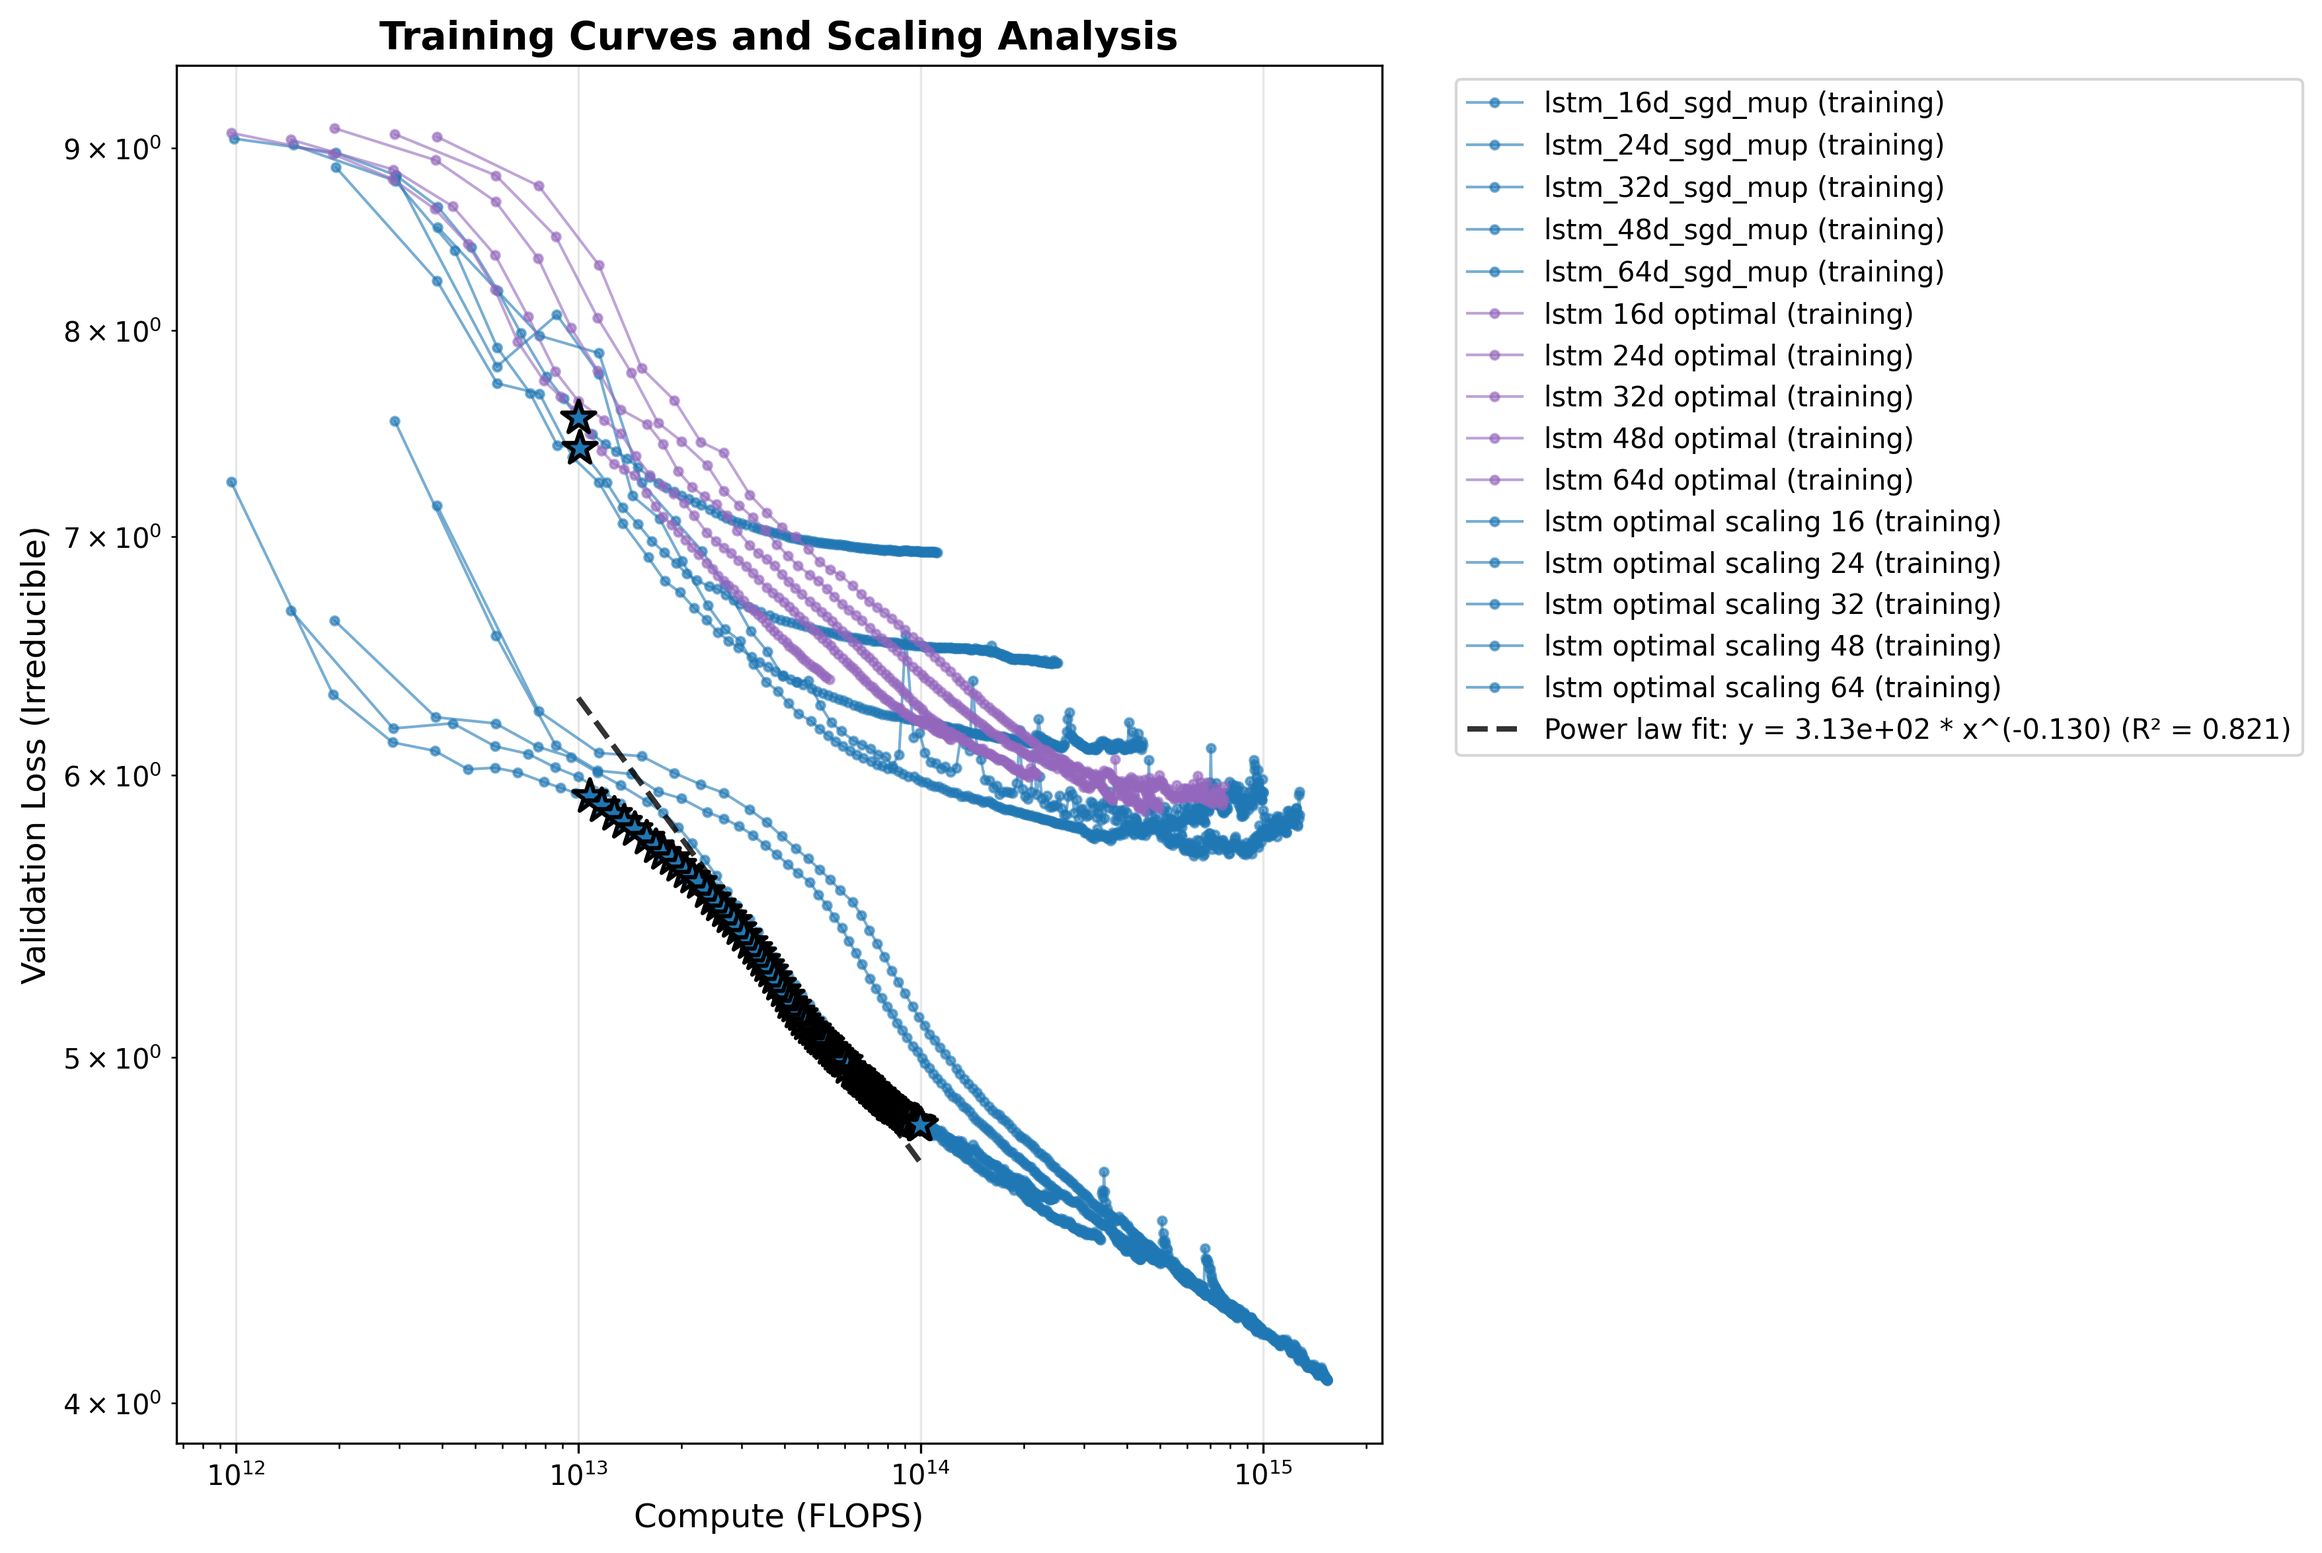
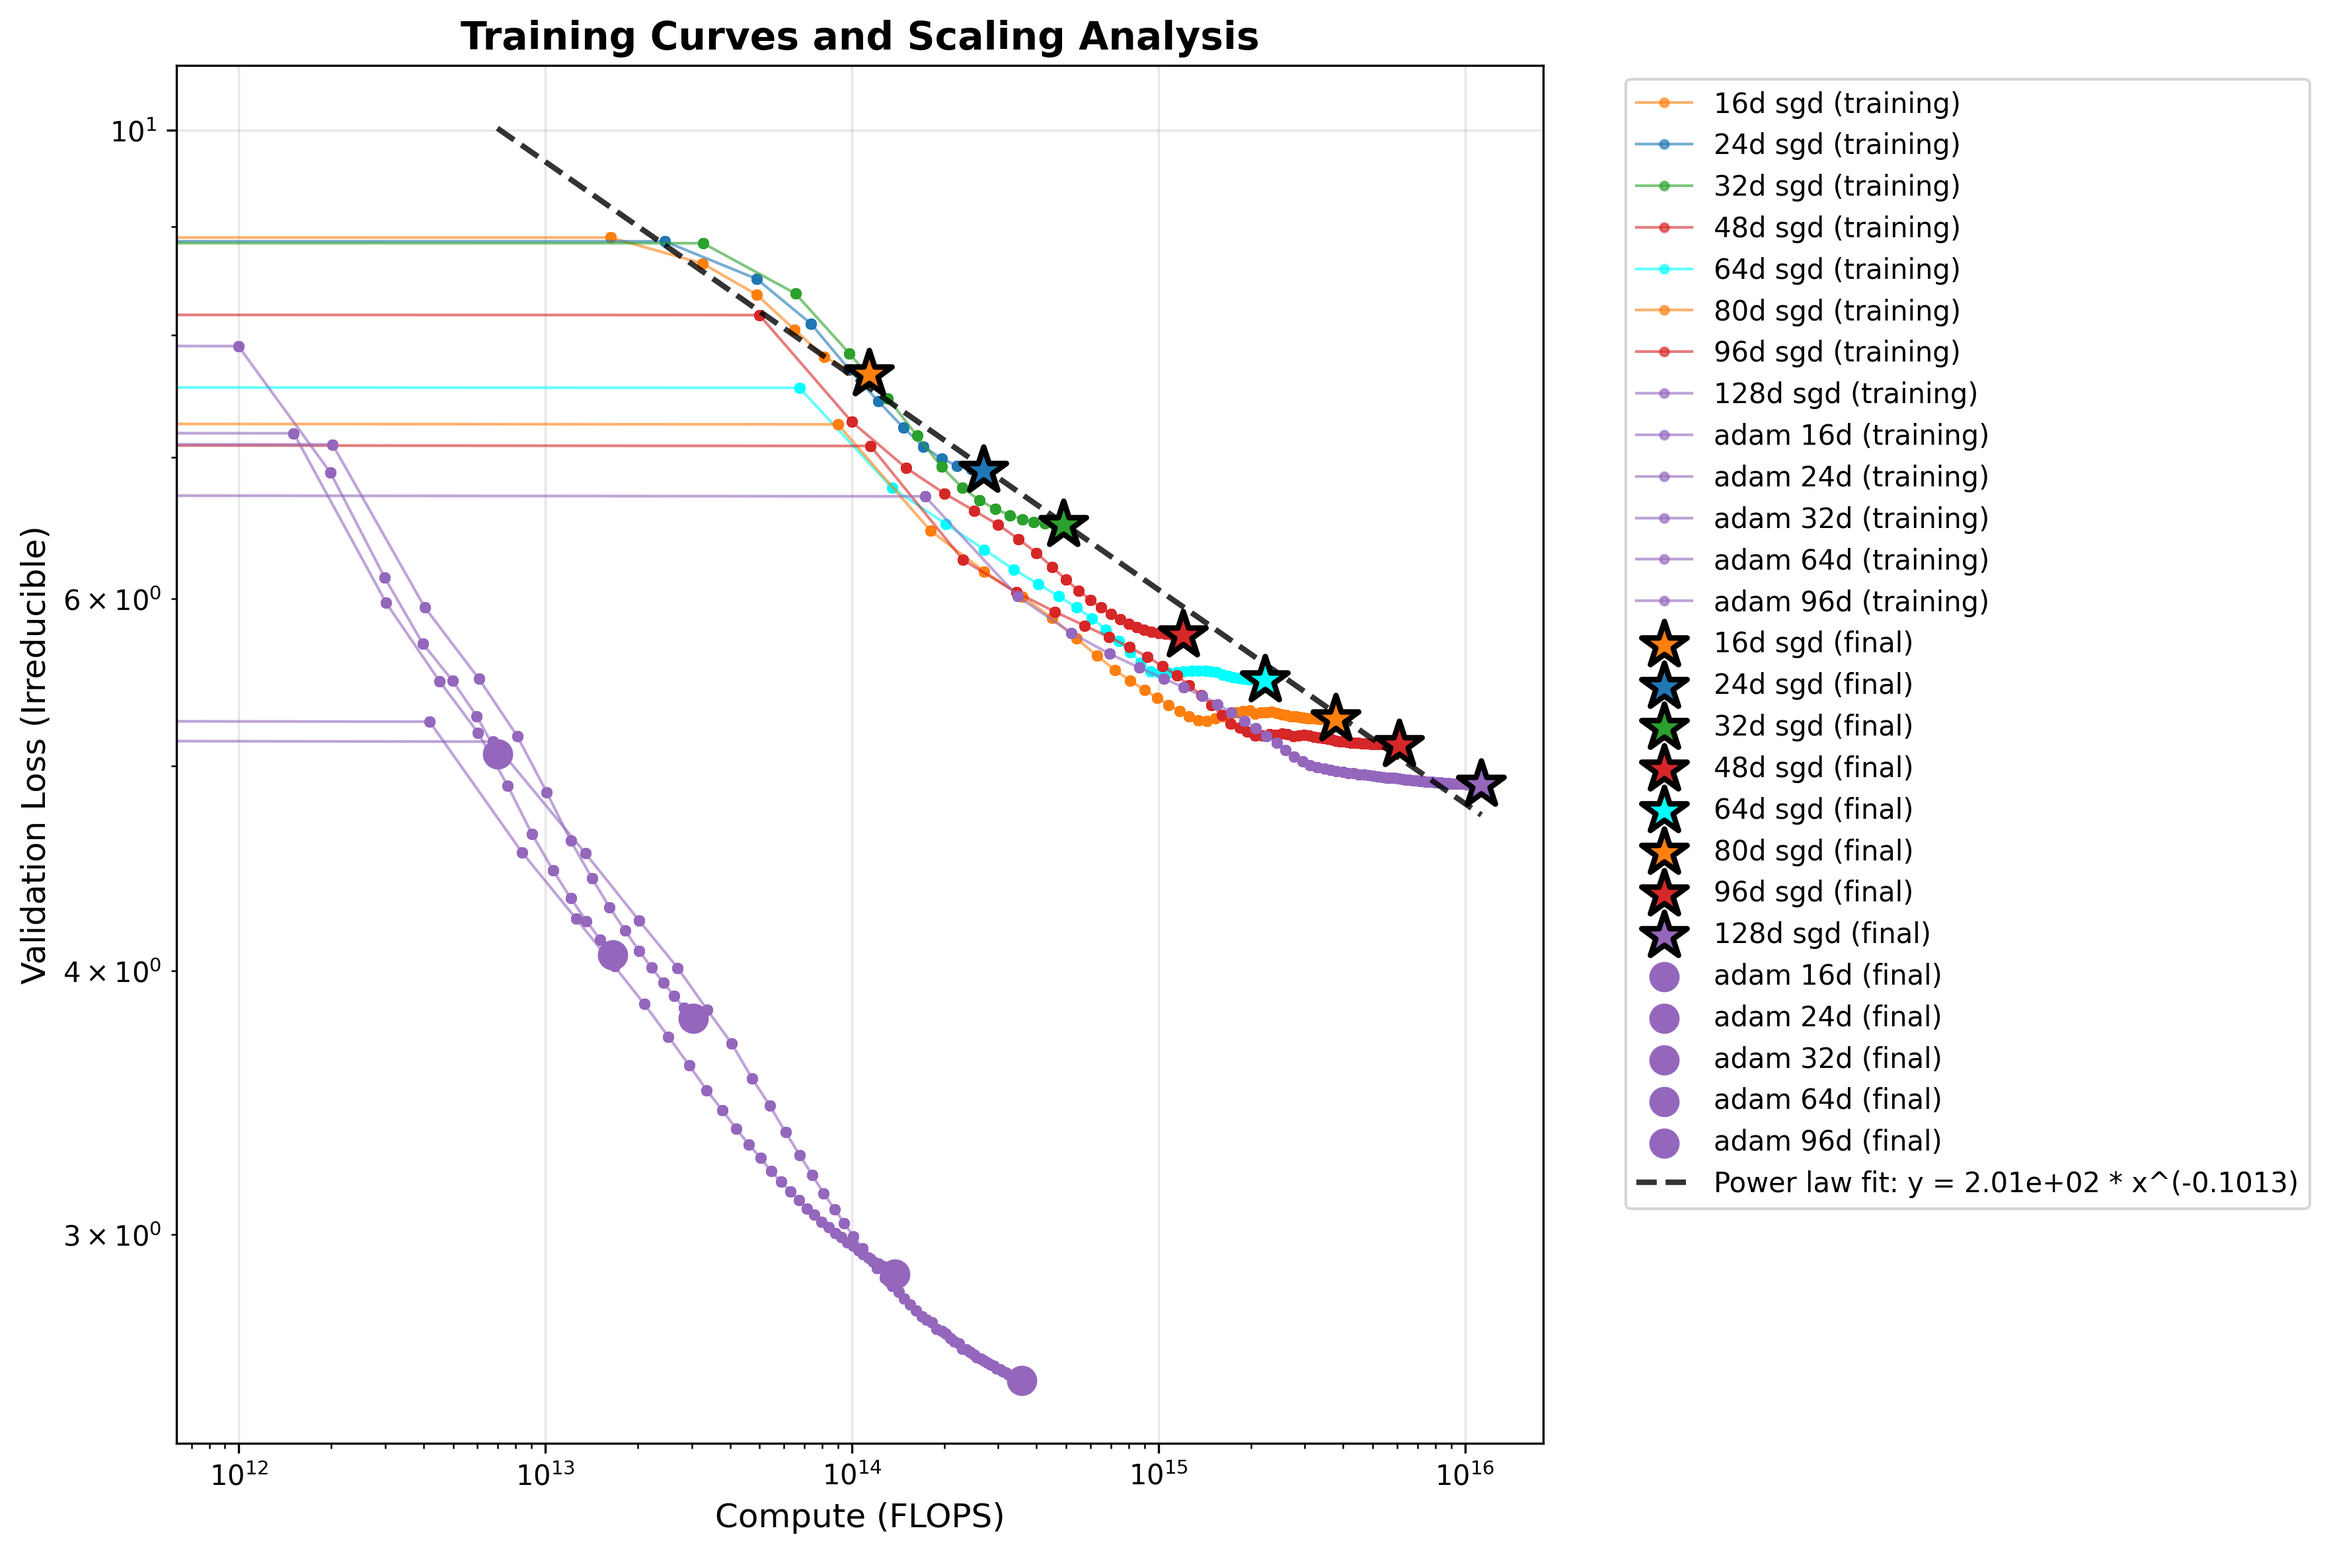
latest version with multigraphs

diff --git a/experimental_analysis/transformer_scaling.py b/experimental_analysis/transformer_scaling.py
@@ -793,125 +793,125 @@ if __name__ == "__main__":
     # Add experiments - you can modify these paths and names as needed
     experiments_config = [
         {
-            "name": "lstm_16d_sgd_mup",
-            "csv_path": "../experimental_data_folder/lstm_sgd_mup_scaling/lstm_16d_sgd_mup.csv",
+            "name": "16d sgd",
+            "csv_path": "../experimental_data_folder/muP_scaling_experiments/16d_mup_sgd.csv",
+            "color": "tab:orange",
+            "marker": "o",
+            "include_in_frontier": True,  # Include in frontier analysis
+            "class": "sgd_transformer",
+        },
+        {
+            "name": "24d sgd",
+            "csv_path": "../experimental_data_folder/muP_scaling_experiments/24d_mup_sgd.csv",
             "color": "tab:blue",
             "marker": "o",
             "include_in_frontier": True,  # Include in frontier analysis
-            "class": "sgd_lstm",
+            "class": "sgd_transformer",
         },
         {
-            "name": "lstm_24d_sgd_mup",
-            "csv_path": "../experimental_data_folder/lstm_sgd_mup_scaling/lstm_24d_sgd_mup.csv",
-            "color": "tab:blue",
-            "marker": "o",
-            "include_in_frontier": True,
-            "class": "sgd_lstm",
-        },
-        {
-            "name": "lstm_32d_sgd_mup",
-            "csv_path": "../experimental_data_folder/lstm_sgd_mup_scaling/lstm_32d_sgd_mup.csv",
-            "color": "tab:blue",
+            "name": "32d sgd",
+            "csv_path": "../experimental_data_folder/muP_scaling_experiments/32d_mup_sgd.csv",
+            "color": "tab:green",
             "marker": "o",
             "include_in_frontier": True,  # Include in frontier analysis
-            "class": "sgd_lstm",
+            "class": "sgd_transformer",
         },
         {
-            "name": "lstm_48d_sgd_mup",
-            "csv_path": "../experimental_data_folder/lstm_sgd_mup_scaling/lstm_48d_sgd_mup.csv",
-            "color": "tab:blue",
+            "name": "48d sgd",
+            "csv_path": "../experimental_data_folder/muP_scaling_experiments/48d_mup_sgd.csv",
+            "color": "tab:red",
             "marker": "o",
             "include_in_frontier": True,  # Include in frontier analysis
-            "class": "sgd_lstm",
+            "class": "sgd_transformer",
         },
         {
-            "name": "lstm_64d_sgd_mup",
-            "csv_path": "../experimental_data_folder/lstm_sgd_mup_scaling/lstm_64d_sgd_mup.csv",
-            "color": "tab:blue",
+            "name": "64d sgd",
+            "csv_path": "../experimental_data_folder/muP_scaling_experiments/64d_mup_sgd.csv",
+            "color": "cyan",
             "marker": "o",
             "include_in_frontier": True,  # Include in frontier analysis
-            "class": "sgd_lstm",
+            "class": "sgd_transformer",
         },
         {
-            "name": "lstm 16d optimal",
-            "csv_path": "../experimental_data_folder/lstm_sgd_scaling/lstm_16d_sgd.csv",
+            "name": "80d sgd",
+            "csv_path": "../experimental_data_folder/muP_scaling_experiments/80d_2_mup_sgd.csv",
+            "color": "tab:orange",
+            "marker": "o",
+            "include_in_frontier": True,  # Include in frontier analysis
+            "class": "sgd_transformer",
+        },
+        {
+            "name": "96d sgd",
+            "csv_path": "../experimental_data_folder/muP_scaling_experiments/96d_2_mup_sgd.csv",
+            "color": "tab:red",
+            "marker": "o",
+            "include_in_frontier": True,  # Include in frontier analysis
+            "class": "sgd_transformer",
+        },
+        {
+            "name": "128d sgd",
+            "csv_path": "../experimental_data_folder/muP_scaling_experiments/128d_2_mup_sgd.csv",
             "color": "tab:purple",
             "marker": "o",
             "include_in_frontier": True,  # Include in frontier analysis
-            "class": "sgd_lstm",
+            "class": "sgd_transformer",
         },
         {
-            "name": "lstm 24d optimal",
-            "csv_path": "../experimental_data_folder/lstm_sgd_scaling/lstm_24d_sgd.csv",
+            "name": "adam 16d",
+            "csv_path": "../experimental_data_folder/Hidden_Dim_Scaling/16d_123.csv",
             "color": "tab:purple",
             "marker": "o",
             "include_in_frontier": True,  # Include in frontier analysis
-            "class": "sgd_lstm",
+            "class": "adam_transformer",
         },
         {
-            "name": "lstm 32d optimal",
-            "csv_path": "../experimental_data_folder/lstm_sgd_scaling/lstm_32d_sgd.csv",
+            "name": "adam 24d",
+            "csv_path": "../experimental_data_folder/Hidden_Dim_Scaling/24d_123.csv",
             "color": "tab:purple",
             "marker": "o",
             "include_in_frontier": True,  # Include in frontier analysis
-            "class": "sgd_lstm",
+            "class": "adam_transformer",
         },
         {
-            "name": "lstm 48d optimal",
-            "csv_path": "../experimental_data_folder/lstm_sgd_scaling/lstm_48d_sgd.csv",
+            "name": "adam 32d",
+            "csv_path": "../experimental_data_folder/Hidden_Dim_Scaling/32d_123.csv",
             "color": "tab:purple",
             "marker": "o",
             "include_in_frontier": True,  # Include in frontier analysis
-            "class": "sgd_lstmd",
+            "class": "adam_transformer",
         },
         {
-            "name": "lstm 64d optimal",
-            "csv_path": "../experimental_data_folder/lstm_sgd_scaling/lstm_64d_sgd.csv",
+            "name": "adam 64d",
+            "csv_path": "../experimental_data_folder/Hidden_Dim_Scaling/64d_123.csv",
             "color": "tab:purple",
             "marker": "o",
             "include_in_frontier": True,  # Include in frontier analysis
-            "class": "sgd_lstm",
+            "class": "adam_transformer",
         },
         {
-            "name": "lstm optimal scaling 16",
-            "csv_path": "../experimental_data_folder/lstm_optimal_scaling/lstm_16d.csv",
-            "color": "tab:blue",
+            "name": "adam 96d",
+            "csv_path": "../experimental_data_folder/Hidden_Dim_Scaling/96d_123.csv",
+            "color": "tab:purple",
             "marker": "o",
             "include_in_frontier": True,  # Include in frontier analysis
-            "class": "lstm_standard",
+            "class": "adam_transformer",
         },
         {
-            "name": "lstm optimal scaling 24",
-            "csv_path": "../experimental_data_folder/lstm_optimal_scaling/lstm_24d.csv",
-            "color": "tab:blue",
+            "name": "adam 128d",
+            "csv_path": "../experimental_data_folder/Hidden_Dim_Scaling/128d_123.csv",
+            "color": "tab:purple",
             "marker": "o",
             "include_in_frontier": True,  # Include in frontier analysis
-            "class": "lstm_standard",
+            "class": "adam_transformer",
         },
-        {
-            "name": "lstm optimal scaling 32",
-            "csv_path": "../experimental_data_folder/lstm_optimal_scaling/lstm_32d.csv",
-            "color": "tab:blue",
-            "marker": "o",
-            "include_in_frontier": True,  # Include in frontier analysis
-            "class": "lstm_standard",
-        },
-        {
-            "name": "lstm optimal scaling 48",
-            "csv_path": "../experimental_data_folder/lstm_optimal_scaling/lstm_48d.csv",
-            "color": "tab:blue",
-            "marker": "o",
-            "include_in_frontier": True,  # Include in frontier analysis
-            "class": "lstm_standard",
-        },
-        {
-            "name": "lstm optimal scaling 64",
-            "csv_path": "../experimental_data_folder/lstm_optimal_scaling/lstm_64d.csv",
-            "color": "tab:blue",
-            "marker": "o",
-            "include_in_frontier": True,  # Include in frontier analysis
-            "class": "lstm_standard",
-        },
+        # Example of an experiment that won't be included in frontier analysis
+        # {
+        #     "name": "baseline experiment",
+        #     "csv_path": "../experimental_data_folder/baseline/baseline.csv",
+        #     "color": "gray",
+        #     "marker": "s",
+        #     "include_in_frontier": False,  # Won't be included in frontier analysis
+        # },
     ]
 
     # Add experiments
@@ -928,10 +928,10 @@ if __name__ == "__main__":
     # Identify per-class frontiers
     analyzer.identify_frontier_by_class(
         method="pareto",
-        classes=["lstm_standard", "sgd_lstm"],
+        classes=["sgd_transformer", "adam_transformer"],
         flop_range_by_class={
-            "lstm_standard": (1e12, 1e14),
-            "sgd_lstm": (1e13, 1e15),
+            "sgd_transformer": (1e14, 1e15),
+            "adam_transformer": (1e13, 1e14),
         },
     )
 
@@ -940,10 +940,10 @@ if __name__ == "__main__":
         show_all_curves=True,
         show_power_law_fit=True,
         save_path="Figures/universal_scaling_law_study_by_class.png",
-        classes_to_plot=["lstm_standard", "sgd_lstm"],
+        classes_to_plot=["sgd_transformer", "adam_transformer"],
         flop_range_by_class={
-            "lstm_standard": (1e14, 1e15),
-            "sgd_lstm": (1e14, 1e15),
+            "sgd_transformer": (1e14, 1e15),
+            "adam_transformer": (1e13, 1e14),
         },
     )
 
